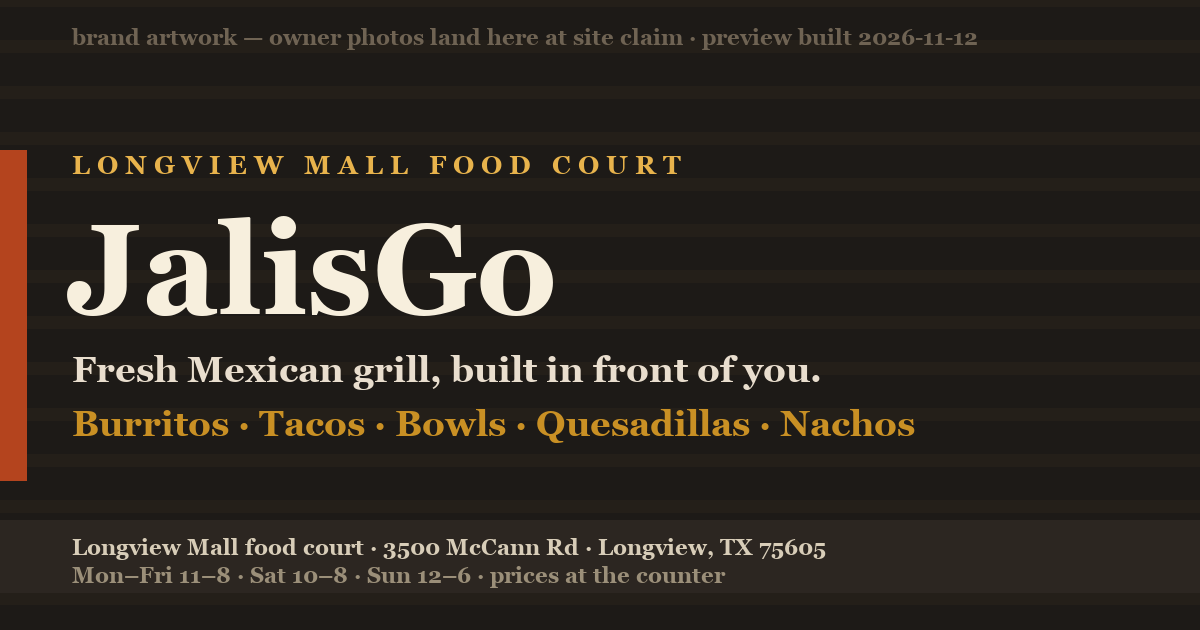
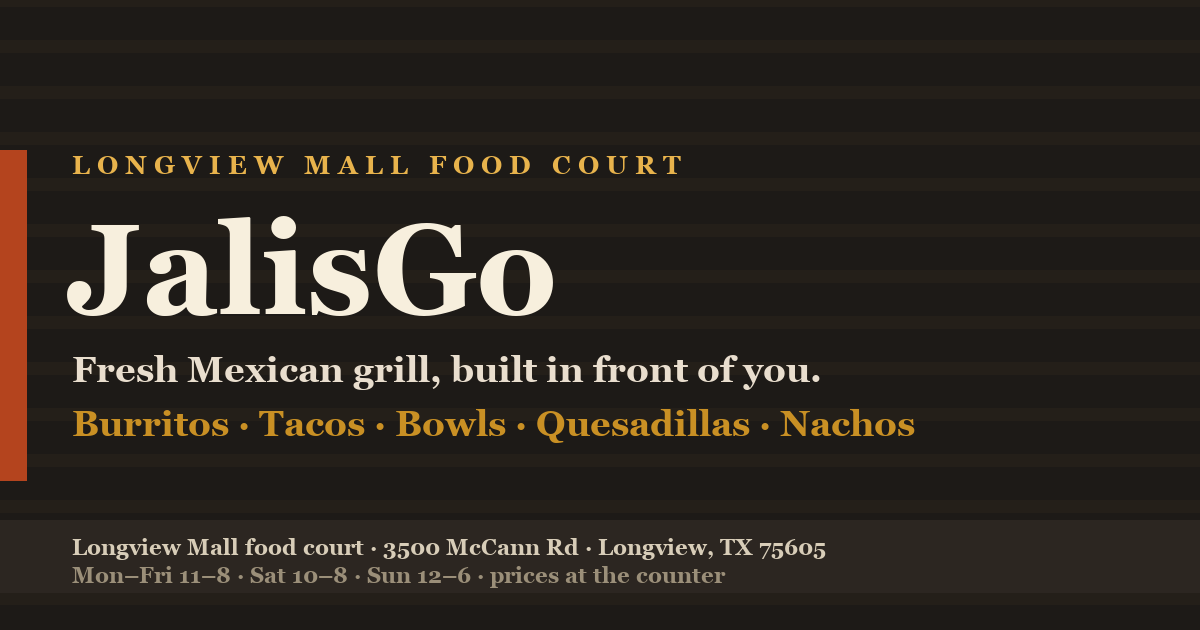
identity strip per owner ruling uid 3034: shop-branded only; no preview/studio markers; og.png note removed

Changed region(s): [[0.0617, 0.0302, 0.8017, 0.0905]]

diff --git a/public/privacy.html b/public/privacy.html
@@ -3,27 +3,27 @@
 <head>
 <meta charset="utf-8">
 <meta name="viewport" content="width=device-width, initial-scale=1">
-<title>Privacy — JalisGo Preview Site, Longview TX</title>
-<meta name="description" content="Privacy on the JalisGo preview site: no cookies, no analytics, no tracking scripts. Contact-form messages go to the building studio's mailbox. Map embed is hosted by Google.">
+<title>Privacy — JalisGo, Longview TX</title>
+<meta name="description" content="Privacy at JalisGo: no cookies, no analytics, no tracking scripts. Contact-form messages go to the shop’s inbox. Map embed is hosted by Google.">
 <link rel="canonical" href="https://jalisgo-production.up.railway.app/privacy">
 <meta property="og:type" content="website">
 <meta property="og:site_name" content="JalisGo">
-<meta property="og:title" content="Privacy — JalisGo Preview Site">
-<meta property="og:description" content="No cookies, no analytics, no tracking. Form notes go to the studio mailbox. Google hosts the map embed.">
+<meta property="og:title" content="Privacy — JalisGo">
+<meta property="og:description" content="No cookies, no analytics, no tracking. Form notes go to the shop’s inbox. Google hosts the map embed.">
 <meta property="og:url" content="https://jalisgo-production.up.railway.app/privacy">
 <meta property="og:image" content="https://jalisgo-production.up.railway.app/og.png">
 <meta property="og:image:width" content="1200">
 <meta property="og:image:height" content="630">
 <meta property="og:locale" content="en_US">
 <meta name="twitter:card" content="summary_large_image">
-<meta name="twitter:title" content="Privacy — JalisGo Preview Site">
+<meta name="twitter:title" content="Privacy — JalisGo">
 <meta name="twitter:description" content="No cookies, no analytics, no tracking.">
 <meta name="twitter:image" content="https://jalisgo-production.up.railway.app/og.png">
 <link rel="icon" type="image/svg+xml" href="/favicon.svg">
 <link rel="stylesheet" href="/style.css">
 <!-- BUILT-2026-11-12 · template v2 -->
 <script type="application/ld+json">
-{"@context":"https://schema.org","@type":"PrivacyPolicy","name":"JalisGo Preview Site Privacy Notice","url":"https://jalisgo-production.up.railway.app/privacy"}
+{"@context":"https://schema.org","@type":"PrivacyPolicy","name":"JalisGo Privacy Notice","url":"https://jalisgo-production.up.railway.app/privacy"}
 </script>
 <script type="application/ld+json">
 {"@context":"https://schema.org","@type":"BreadcrumbList","itemListElement":[{"@type":"ListItem","position":1,"name":"Home","item":"https://jalisgo-production.up.railway.app/"},{"@type":"ListItem","position":2,"name":"Privacy","item":"https://jalisgo-production.up.railway.app/privacy"}]}
@@ -31,7 +31,6 @@
 </head>
 <body>
 <a class="skip" href="#main">Skip to content</a>
-<div class="banner">Finished preview built for the owners of JalisGo before asking — <a href="index.html#claim">what this is</a></div>
 
 <header class="site-head">
   <div class="head-in">
@@ -56,7 +55,7 @@
     <p class="lede">This is a small static site. It keeps things simple on purpose:</p>
     <ul class="pl">
       <li><strong>No cookies, no analytics, no tracking scripts.</strong> Nothing follows you from this site to anywhere else. There is not a single line of third-party JavaScript on these pages.</li>
-      <li><strong>The contact form goes to a mailbox, not a database.</strong> What you write is emailed to <a href="mailto:jarvis+websites@onsmalltalk.com">jarvis+websites@onsmalltalk.com</a>, the mailbox of Ramon Leon's Web Studio (Longview, Texas), which built and hosts this preview while the shop's own contact setup is finished. It's used to answer your message — nothing else.</li>
+      <li><strong>The contact form goes to a mailbox, not a database.</strong> What you write is delivered by email straight to the shop's inbox and used to answer your message — nothing else.</li>
       <li><strong>The map is Google's.</strong> The embedded map on the home and contact pages is served by Google; when it loads, Google receives standard browser data (like your IP address). See <a href="https://policies.google.com/privacy" rel="noopener">Google's privacy policy</a>. The map only loads after you scroll to it, and you can open directions in your own maps app instead.</li>
       <li><strong>No accounts, no logins, no ads.</strong> This site sells nothing and stores nothing in your browser.</li>
     </ul>
@@ -64,8 +63,8 @@
 
   <section>
     <h2>About this build</h2>
-    <p>Business facts on these pages (opening coverage, hours, ownership, location) come from the Longview News-Journal's Business Beat column of Oct. 26, 2026. Anything the published coverage didn't state — phone number, prices, photos — is marked as “to be added” rather than guessed. Longview Mall and Bombongo names are used descriptively to describe where JalisGo is; this preview is not published by or endorsed by Longview Mall.</p>
-    <p class="fine">Questions about this preview, or to correct anything on it: <a href="/contact">use the contact form</a> or write to jarvis+websites@onsmalltalk.com with a postal address of Ramon Leon's Web Studio in the reply thread. Built 2026-11-12.</p>
+    <p>Business facts on these pages (opening coverage, hours, ownership, location) come from the Longview News-Journal's Business Beat column of Oct. 26, 2026. Anything the published coverage didn't state — phone number, prices, photos — is marked as “to be added” rather than guessed. Longview Mall and Bombongo names are used descriptively to describe where JalisGo is; this site is not published by or endorsed by Longview Mall.</p>
+    <p class="fine">Questions about these pages, or to correct anything on them: <a href="/contact">use the contact form</a>.</p>
   </section>
 </main>
 
@@ -76,7 +75,7 @@
     <div>Mon–Fri 11–8 · Sat 10–8 · Sun 12–6</div>
     <div><a href="https://www.google.com/maps?q=3500+McCann+Rd,+Longview,+TX+75605" rel="noopener">Map &amp; directions</a> · <a href="/contact">Contact</a></div>
   </div>
-  <div class="studio">Preview site built for the shop owners by Ramon Leon's Web Studio · Longview, TX · <a href="/privacy">Privacy</a></div>
+  <div class="studio">JalisGo · Longview, TX · <a href="/privacy">Privacy</a></div>
 </footer>
 </body>
 </html>

diff --git a/public/thanks.html b/public/thanks.html
@@ -4,7 +4,7 @@
 <meta charset="utf-8">
 <meta name="viewport" content="width=device-width, initial-scale=1">
 <title>Message sent — JalisGo, Longview TX</title>
-<meta name="description" content="Your message is on its way to the mailbox watching the JalisGo preview.">
+<meta name="description" content="Your message is on its way to JalisGo — the shop’s inbox, read and answered by the people running the counter.">
 <meta name="robots" content="noindex">
 <link rel="canonical" href="https://jalisgo-production.up.railway.app/thanks">
 <link rel="icon" type="image/svg+xml" href="/favicon.svg">
@@ -13,7 +13,6 @@
 </head>
 <body>
 <a class="skip" href="#main">Skip to content</a>
-<div class="banner">Finished preview built for the owners of JalisGo before asking — <a href="index.html#claim">what this is</a></div>
 
 <header class="site-head">
   <div class="head-in">
@@ -33,7 +32,7 @@
 <main id="main">
   <section class="cta-band" style="margin-top:3rem">
     <h2>Message sent — gracias</h2>
-    <p>Your note went straight to the mailbox watching the JalisGo preview. Expect a reply by email or phone, whichever you left us.</p>
+    <p>Your note went straight to the shop's inbox. Expect a reply by email or phone, whichever you left us.</p>
     <div class="cta-row">
       <a class="btn gold" href="/">Back to home</a>
       <a class="btn outline" href="/menu">Browse the menu</a>
@@ -48,7 +47,7 @@
     <div>Mon–Fri 11–8 · Sat 10–8 · Sun 12–6</div>
     <div><a href="https://www.google.com/maps?q=3500+McCann+Rd,+Longview,+TX+75605" rel="noopener">Map &amp; directions</a> · <a href="/contact">Contact</a></div>
   </div>
-  <div class="studio">Preview site built for the shop owners by Ramon Leon's Web Studio · Longview, TX · <a href="/privacy">Privacy</a></div>
+  <div class="studio">JalisGo · Longview, TX · <a href="/privacy">Privacy</a></div>
 </footer>
 </body>
 </html>

diff --git a/public/index.html b/public/index.html
@@ -31,7 +31,6 @@
 </head>
 <body>
 <a class="skip" href="#main">Skip to content</a>
-<div class="banner">Finished preview built for the owners of JalisGo before asking — <a href="#claim">what this is</a></div>
 
 <header class="site-head">
   <div class="head-in">
@@ -119,9 +118,9 @@
   </section>
 
   <section class="claim" id="claim">
-    <h2>Owners: we built this before asking</h2>
-    <p>This is a finished, multi-page preview site for JalisGo — menu layout, hours, location and your story drawn from the Longview News-Journal's Business Beat coverage (Oct. 26, 2026). If it's useful, reply to our email: it's yours to claim. Phone number and your own photos get added before it goes live on your domain.</p>
-    <p><a class="btn clay" href="/contact">Reply through the contact form</a></p>
+    <h2>The family behind the grill</h2>
+    <p>JalisGo is run by Ricky &amp; Maria Plata — the Longview family behind Bombongo, steps away in the same food court. What they're making here they call a fresh Mexican grill: fresh ingredients, everything made when you order it, and your pick at every step of the build.</p>
+    <p><a class="btn clay" href="/story">Read our story</a></p>
   </section>
 
 </main>
@@ -133,7 +132,7 @@
     <div>Mon–Fri 11–8 · Sat 10–8 · Sun 12–6</div>
     <div><a href="https://www.google.com/maps?q=3500+McCann+Rd,+Longview,+TX+75605" rel="noopener">Map &amp; directions</a> · <a href="/contact">Contact</a></div>
   </div>
-  <div class="studio">Preview site built for the shop owners by Ramon Leon's Web Studio · Longview, TX · <a href="/privacy">Privacy</a></div>
+  <div class="studio">JalisGo · Longview, TX · <a href="/privacy">Privacy</a></div>
 </footer>
 </body>
 </html>

diff --git a/public/story.html b/public/story.html
@@ -31,7 +31,6 @@
 </head>
 <body>
 <a class="skip" href="#main">Skip to content</a>
-<div class="banner">Finished preview built for the owners of JalisGo before asking — <a href="index.html#claim">what this is</a></div>
 
 <header class="site-head">
   <div class="head-in">
@@ -77,7 +76,7 @@
     <div class="steps" style="margin-top:.4rem">
       <div class="step"><span class="num">10</span><strong>Oct 26, 2026</strong><br>soft opening, 11 a.m.–2 p.m., Longview Mall food court</div>
       <div class="step"><span class="num">10</span><strong>Oct 27, 2026</strong><br>regular hours begin: Mon–Fri 11–8, Sat 10–8, Sun 12–6</div>
-      <div class="step"><span class="num">→</span><strong>Next</strong><br>phone, photos and the family's own updates land here when the site is claimed</div>
+      <div class="step"><span class="num">→</span><strong>Next</strong><br>phone number and store photos land here as the family publishes them</div>
     </div>
   </section>
 
@@ -106,7 +105,7 @@
     <div>Mon–Fri 11–8 · Sat 10–8 · Sun 12–6</div>
     <div><a href="https://www.google.com/maps?q=3500+McCann+Rd,+Longview,+TX+75605" rel="noopener">Map &amp; directions</a> · <a href="/contact">Contact</a></div>
   </div>
-  <div class="studio">Preview site built for the shop owners by Ramon Leon's Web Studio · Longview, TX · <a href="/privacy">Privacy</a></div>
+  <div class="studio">JalisGo · Longview, TX · <a href="/privacy">Privacy</a></div>
 </footer>
 </body>
 </html>

diff --git a/public/contact.html b/public/contact.html
@@ -31,7 +31,6 @@
 </head>
 <body>
 <a class="skip" href="#main">Skip to content</a>
-<div class="banner">Finished preview built for the owners of JalisGo before asking — <a href="index.html#claim">what this is</a></div>
 
 <header class="site-head">
   <div class="head-in">
@@ -73,7 +72,7 @@
         <label for="f-msg">Message *</label>
         <textarea id="f-msg" name="message" rows="5" required></textarea>
         <button class="btn clay" type="submit">Send message</button>
-        <p class="fine">While JalisGo's own phone number is being set up, this form delivers to the studio mailbox (jarvis+websites@onsmalltalk.com) watching the preview — the Platas take over the inbox the day they claim the site.</p>
+        <p class="fine">JalisGo's own phone line is still being set up — until it's published, this form is the direct line to the shop, and every message gets read and answered.</p>
       </form>
     </div>
     <div>
@@ -109,7 +108,7 @@
     <div>Mon–Fri 11–8 · Sat 10–8 · Sun 12–6</div>
     <div><a href="https://www.google.com/maps?q=3500+McCann+Rd,+Longview,+TX+75605" rel="noopener">Map &amp; directions</a> · <a href="/contact">Contact</a></div>
   </div>
-  <div class="studio">Preview site built for the shop owners by Ramon Leon's Web Studio · Longview, TX · <a href="/privacy">Privacy</a></div>
+  <div class="studio">JalisGo · Longview, TX · <a href="/privacy">Privacy</a></div>
 </footer>
 </body>
 </html>

diff --git a/public/faq.html b/public/faq.html
@@ -31,7 +31,6 @@
 </head>
 <body>
 <a class="skip" href="#main">Skip to content</a>
-<div class="banner">Finished preview built for the owners of JalisGo before asking — <a href="index.html#claim">what this is</a></div>
 
 <header class="site-head">
   <div class="head-in">
@@ -91,7 +90,7 @@
 
   <section class="cta-band">
     <h2>Still curious?</h2>
-    <p>Send a note — the contact form reaches the people running this preview while the shop's own phone is being added.</p>
+    <p>Send a note — the contact form reaches the shop directly while its phone line is being set up.</p>
     <div class="cta-row">
       <a class="btn gold" href="/contact">Contact us</a>
       <a class="btn outline" href="/menu">See the menu</a>
@@ -106,7 +105,7 @@
     <div>Mon–Fri 11–8 · Sat 10–8 · Sun 12–6</div>
     <div><a href="https://www.google.com/maps?q=3500+McCann+Rd,+Longview,+TX+75605" rel="noopener">Map &amp; directions</a> · <a href="/contact">Contact</a></div>
   </div>
-  <div class="studio">Preview site built for the shop owners by Ramon Leon's Web Studio · Longview, TX · <a href="/privacy">Privacy</a></div>
+  <div class="studio">JalisGo · Longview, TX · <a href="/privacy">Privacy</a></div>
 </footer>
 </body>
 </html>

diff --git a/public/bowls-quesadillas-nachos-longview-mall.html b/public/bowls-quesadillas-nachos-longview-mall.html
@@ -34,7 +34,6 @@
 </head>
 <body>
 <a class="skip" href="#main">Skip to content</a>
-<div class="banner">Finished preview built for the owners of JalisGo before asking — <a href="index.html#claim">what this is</a></div>
 
 <header class="site-head">
   <div class="head-in">
@@ -120,7 +119,7 @@
     <div>Mon–Fri 11–8 · Sat 10–8 · Sun 12–6</div>
     <div><a href="https://www.google.com/maps?q=3500+McCann+Rd,+Longview,+TX+75605" rel="noopener">Map &amp; directions</a> · <a href="/contact">Contact</a></div>
   </div>
-  <div class="studio">Preview site built for the shop owners by Ramon Leon's Web Studio · Longview, TX · <a href="/privacy">Privacy</a></div>
+  <div class="studio">JalisGo · Longview, TX · <a href="/privacy">Privacy</a></div>
 </footer>
 </body>
 </html>

diff --git a/public/burritos-tacos-longview-mall.html b/public/burritos-tacos-longview-mall.html
@@ -34,7 +34,6 @@
 </head>
 <body>
 <a class="skip" href="#main">Skip to content</a>
-<div class="banner">Finished preview built for the owners of JalisGo before asking — <a href="index.html#claim">what this is</a></div>
 
 <header class="site-head">
   <div class="head-in">
@@ -124,7 +123,7 @@
     <div>Mon–Fri 11–8 · Sat 10–8 · Sun 12–6</div>
     <div><a href="https://www.google.com/maps?q=3500+McCann+Rd,+Longview,+TX+75605" rel="noopener">Map &amp; directions</a> · <a href="/contact">Contact</a></div>
   </div>
-  <div class="studio">Preview site built for the shop owners by Ramon Leon's Web Studio · Longview, TX · <a href="/privacy">Privacy</a></div>
+  <div class="studio">JalisGo · Longview, TX · <a href="/privacy">Privacy</a></div>
 </footer>
 </body>
 </html>

diff --git a/public/404.html b/public/404.html
@@ -13,7 +13,6 @@
 </head>
 <body>
 <a class="skip" href="#main">Skip to content</a>
-<div class="banner">Finished preview built for the owners of JalisGo before asking — <a href="index.html#claim">what this is</a></div>
 
 <header class="site-head">
   <div class="head-in">
@@ -49,7 +48,7 @@
     <div>Mon–Fri 11–8 · Sat 10–8 · Sun 12–6</div>
     <div><a href="https://www.google.com/maps?q=3500+McCann+Rd,+Longview,+TX+75605" rel="noopener">Map &amp; directions</a> · <a href="/contact">Contact</a></div>
   </div>
-  <div class="studio">Preview site built for the shop owners by Ramon Leon's Web Studio · Longview, TX · <a href="/privacy">Privacy</a></div>
+  <div class="studio">JalisGo · Longview, TX · <a href="/privacy">Privacy</a></div>
 </footer>
 </body>
 </html>

diff --git a/public/menu.html b/public/menu.html
@@ -31,7 +31,6 @@
 </head>
 <body>
 <a class="skip" href="#main">Skip to content</a>
-<div class="banner">Finished preview built for the owners of JalisGo before asking — <a href="index.html#claim">what this is</a></div>
 
 <header class="site-head">
   <div class="head-in">
@@ -98,7 +97,7 @@
     <div>Mon–Fri 11–8 · Sat 10–8 · Sun 12–6</div>
     <div><a href="https://www.google.com/maps?q=3500+McCann+Rd,+Longview,+TX+75605" rel="noopener">Map &amp; directions</a> · <a href="/contact">Contact</a></div>
   </div>
-  <div class="studio">Preview site built for the shop owners by Ramon Leon's Web Studio · Longview, TX · <a href="/privacy">Privacy</a></div>
+  <div class="studio">JalisGo · Longview, TX · <a href="/privacy">Privacy</a></div>
 </footer>
 </body>
 </html>
